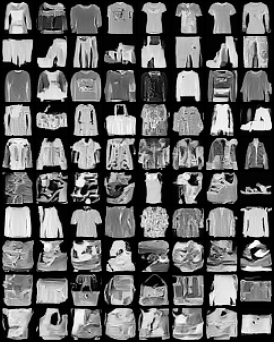
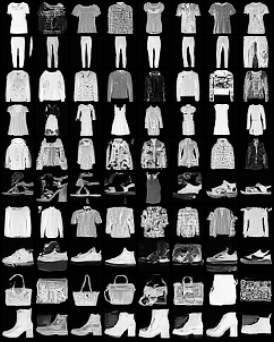
Lower default guidance 3.0 -> 1.5; regenerate sample grid
High CFG on this small 15-epoch model produced patchy/blob artifacts;
samples become recognizable garments at CFG 1.5. Update config default,
Gradio app defaults, README caption + 'what I learned' note, and the
showcase grid accordingly.

diff --git a/app.py b/app.py
@@ -63,7 +63,7 @@ with gr.Blocks(title="text-diffusion-fashion-mnist") as demo:
         with gr.Column(scale=1):
             category = gr.Dropdown(FASHION_CLASSES, value="sneaker", label="Category")
             n_images = gr.Slider(1, 8, value=4, step=1, label="Number of images")
-            guidance = gr.Slider(1.0, 8.0, value=3.0, step=0.5, label="Guidance scale (CFG)")
+            guidance = gr.Slider(1.0, 8.0, value=1.5, step=0.5, label="Guidance scale (CFG)")
             steps = gr.Slider(10, 50, value=40, step=5, label="DDIM steps")
             seed = gr.Number(value=42, label="Seed (-1 = random)")
             btn = gr.Button("Generate", variant="primary")
@@ -72,7 +72,7 @@ with gr.Blocks(title="text-diffusion-fashion-mnist") as demo:
 
     btn.click(generate, [category, n_images, guidance, steps, seed], gallery)
     gr.Examples(
-        examples=[["sneaker", 4, 3.0, 40, 42], ["dress", 4, 4.0, 40, 7], ["bag", 4, 3.0, 40, 1]],
+        examples=[["sneaker", 4, 1.5, 40, 42], ["dress", 4, 1.5, 40, 7], ["bag", 4, 2.0, 40, 1]],
         inputs=[category, n_images, guidance, steps, seed],
     )
 

diff --git a/config.py b/config.py
@@ -73,7 +73,7 @@ class Config:
     # --- sampling ---
     ddim_steps: int = 50          # DDIM lets us sample in 50 steps instead of 1000
     ddim_eta: float = 0.0         # 0 = deterministic DDIM
-    guidance_scale: float = 3.0   # classifier-free guidance strength
+    guidance_scale: float = 1.5   # classifier-free guidance; small/short-trained models artifact at high CFG
 
     # --- io / runtime ---
     ckpt_dir: str = "checkpoints"

diff --git a/README.md b/README.md
@@ -17,7 +17,7 @@ small enough to train on an Apple-Silicon MacBook (MPS), no cloud GPU required.
 
 *Generated samples after 15 epochs on an M-series Mac (MPS). One row per class — t-shirt,
 trouser, pullover, dress, coat, sandal, shirt, sneaker, bag, ankle boot — each image synthesised
-from pure noise (DDIM, 50 steps, guidance 3.0). **Pretrained weights:**
+from pure noise (DDIM, 50 steps, guidance 1.5). **Pretrained weights:**
 [huggingface.co/mbsdeepak/text-diffusion-fashion-mnist](https://huggingface.co/mbsdeepak/text-diffusion-fashion-mnist).*
 
 ---
@@ -123,7 +123,7 @@ python -m src.train
 # 3. Generate images from the trained model (--weights model uses the raw weights, best for
 #    short runs where the EMA average still lags):
 python -m src.sample --classes all --n 8 --weights model --out assets/samples.png
-python -m src.sample --classes sneaker,bag,dress --n 8 --weights model --guidance 4.0 --out assets/picks.png
+python -m src.sample --classes sneaker,bag,dress --n 8 --weights model --guidance 1.5 --out assets/picks.png
 
 # 4. (optional) Export the trained weights for the Hugging Face Hub:
 python -m src.export_hf --which model --out hf_export
@@ -161,6 +161,10 @@ python app.py          # opens http://127.0.0.1:7860
   instead of every step cut training time substantially on MPS.
 - **Cross-attention placement** — only at 8×8 and 16×16. Attention at 32×32 is expensive and adds
   little for images this small.
+- **Guidance scale must match model strength** — my first grid used CFG 3.0 and looked like
+  patchy blobs; the samples only became recognizable garments at **CFG 1.5**. Classifier-free
+  guidance extrapolates `ε_cond − ε_uncond`, and on a small, 15-epoch model that extrapolation
+  amplifies artifacts. Low guidance (1.0–1.5) is the right regime here; default is now 1.5.
 
 ## Honest limitations
 
